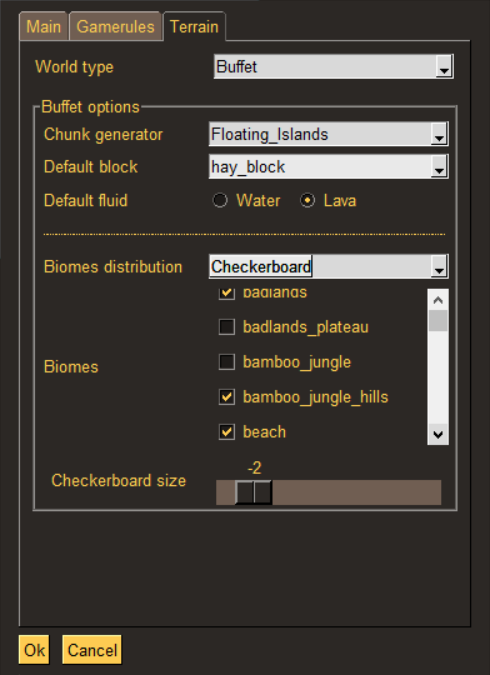
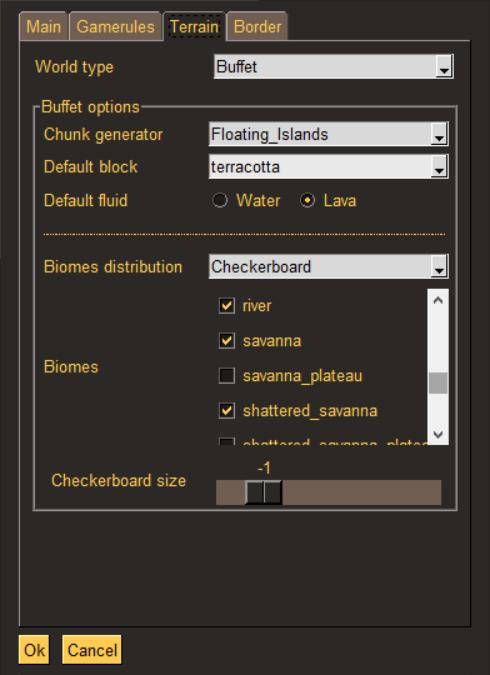
Add World border tab

diff --git a/FastWorldCreator.py b/FastWorldCreator.py
@@ -57,43 +57,43 @@ def create_layouts():
         seed, game mode and difficulty. Datapack selection is bundled in the
         main tab, and populated from the assets/imported_datapacks folder.
         """
-        c1_layout = [[
+        layout = [[
             sg.Frame("Version", [[
-                sg.T('MC Version', size=(10, 1)),
+                sg.T('Minecraft Version', size=(15, 1)),
                 sg.Combo(installed_mc_versions, installed_mc_versions[0],
-                         (18, 1), readonly=True, key="release")
+                         (25, 1), readonly=True, key="release")
                 ],
                 [
-                    sg.Radio("Installed versions", "radio_versions", True,
+                    sg.Radio("Show installed versions", "radio_versions", True,
                              enable_events=True,
                              key="radio_installed_versions"),
-                    sg.Radio("All versions", "radio_versions",
+                    sg.Radio("Show all versions", "radio_versions",
                              enable_events=True, key="radio_all_versions")
                 ]
             ])
         ]]
-        c1_layout += [[
+        c1_layout = [[
             sg.T('World Name', size=(10, 1)),
-            sg.I(size=(20, 1), key="name")
+            sg.I(size=(21, 1), key="name")
         ]]
         c1_layout += [[
             sg.T('Seed', size=(10, 1), tooltip="Leave blank for random seed"),
-            sg.I(size=(20, 1), tooltip="Leave blank for random seed",
+            sg.I(size=(21, 1), tooltip="Leave blank for random seed",
                  key="seed")
         ]]
         c1_layout += [[
             sg.T('Difficulty', size=(10, 1)),
-            sg.Combo(difficulties, difficulties[0], (18, 1), readonly=True,
+            sg.Combo(difficulties, difficulties[0], (19, 1), readonly=True,
                      key="difficulty")
         ]]
         c1_layout += [[
             sg.T('Game mode', size=(10, 1)),
-            sg.Combo(game_modes, game_modes[0], (18, 1), readonly=True,
+            sg.Combo(game_modes, game_modes[0], (19, 1), readonly=True,
                      key="game_mode")
         ]]
         c2_layout = [[sg.Frame('Weather', create_weather_layout())]]
-        layout = [[
-            sg.Col(c1_layout, pad=(0, 7)), sg.Col(c2_layout, pad=(0, 7))
+        layout += [[
+            sg.Col(c1_layout, pad=(0, 5)), sg.Col(c2_layout, pad=(0, 0))
         ]]
         layout += [[
             sg.Frame('Datapacks', create_datapack_layout(), size=(50, 1))
@@ -243,11 +243,63 @@ def create_layouts():
         ]]
         return layout
 
+    def create_border_options():
+        layout = [[
+            sg.Frame("Border center", [[
+                sg.T("X"), sg.I("0", (19, 1), key="border_x"),
+                sg.T("Z"), sg.I("0", (19, 1), key="border_z"),
+            ]])
+        ]]
+        layout += [[
+            sg.Frame("Border size", [
+                [
+                    sg.T("Initial size", (8, 1)),
+                    sg.I("60000000", (10, 1), justification="right",
+                         key="border_size")
+                ],
+                [
+                    sg.T("Final size", (8, 1)),
+                    sg.I("60000000", (10, 1), justification="right",
+                         key="border_size_target")
+                ],
+                [
+                    sg.T("Lerp time", (8, 1),
+                         tooltip="Seconds until border reaches final size"),
+                    sg.I("0", (10, 1), justification="right",
+                         key="border_lerp_time")
+                ]
+            ])
+        ]]
+        layout += [[
+            sg.Frame("Warning zone", [
+                [
+                    sg.T("Damage per block", (15, 1)),
+                    sg.Spin([str(x / 10) for x in range(201)], "0.2",
+                            size=(10, 1), key="border_damage")
+
+                ],
+                [
+                    sg.T("Safe distance", (15, 1)),
+                    sg.I("5", (11, 1), key="border_safe_blocks")
+                ],
+                [
+                    sg.T("Warning time", (15, 1)),
+                    sg.I("15", (11, 1), key="border_warn_time")
+                ],
+                [
+                    sg.T("Warning distance", (15, 1)),
+                    sg.I("5", (11, 1), key="border_warn_blocks")
+                ]
+            ])
+        ]]
+        return layout
+
     tab1 = sg.Tab("Main", create_main_tab_layout())
     tab2 = sg.Tab("Gamerules", create_gamerule_layout())
     tab3 = sg.Tab("Terrain", create_terrain_layout())
+    tab4 = sg.Tab("Border", create_border_options())
     main_layout = [
-        [sg.TabGroup([[tab1, tab2, tab3]])],
+        [sg.TabGroup([[tab1, tab2, tab3, tab4]])],
         [sg.Button('Ok'), sg.Button('Cancel')]
     ]
     return main_layout
@@ -281,6 +333,14 @@ def parse_generator_options(values: dict) -> dict:
     }
 
 
+def parse_border_options(values: dict) -> dict:
+    border_opts = {}
+    for k in list(values.keys()):
+        if str(k).startswith("border_"):
+            border_opts[k[len("border_"):]] = values.get(k)
+    return border_opts
+
+
 def create(values: dict) -> None:
     """ Start the creation of the Minecraft world.
 
@@ -289,6 +349,7 @@ def create(values: dict) -> None:
     for gr in gamerules:
         # Gamerules always stored as strings
         updated_gamerules[gr] = str(values.get(gr)).lower()
+    parse_border_options(values)
     core.run(
         version=values.get("release"),
         world_name=values.get("name").replace(" ", "_"),
@@ -300,7 +361,8 @@ def create(values: dict) -> None:
         generator=values.get("generator").lower(),
         generator_options=parse_generator_options(values),
         raining=values.get("rain"),
-        thundering=values.get("thunder")
+        thundering=values.get("thunder"),
+        border_settings=parse_border_options(values)
     )
 
 

diff --git a/fast_world_creator/new_world/world_creator.py b/fast_world_creator/new_world/world_creator.py
@@ -3,9 +3,9 @@ import os
 import random
 from typing import List
 
+from fast_world_creator.new_world.level_dat import LevelFile
 from fast_world_creator.utils import common_utils as cu
 from fast_world_creator.utils import minecraft_utils as mu
-from fast_world_creator.new_world.level_dat import LevelFile
 
 
 class WorldCreator:
@@ -50,8 +50,9 @@ class WorldCreator:
 
     def create_level_dat(self, gamerules: dict, difficulty: int,
                          datapack_list: List[str], game_mode: int = 0,
-                         raining: bool = False,
-                         thundering: bool = False, generator: str = "default",
+                         raining: bool = False, thundering: bool = False,
+                         border_settings: dict = None,
+                         generator: str = "default",
                          generator_opts: dict = None) -> None:
         """ Creates the level.dat NBT file in the new world folder.
 
@@ -61,9 +62,11 @@ class WorldCreator:
         :param datapack_list: The list of datapack names to enable in the world.
         :param game_mode: An integer representing the game mode of the player.
         :param raining: A boolean value indicating whether rain should be
-            enabled. Gets overriden if the parameter thundering is True.
+            enabled. Gets overridden if the parameter thundering is True.
         :param thundering: A boolean value indicating whether thunder should be
             enabled. Overrides the parameter raining if set to True
+        :param border_settings: Dictionary containing all the options for the
+            world border.
         :param generator: The name of the terrain generator to use in the world.
         :param generator_opts: A dictionary containing the options for the flat
             and buffet terrain generators. If the parameter generator is neither
@@ -88,7 +91,17 @@ class WorldCreator:
             "GameRules": gamerules,
             "GameType": game_mode,
             "raining": True if thundering else raining,
-            "thundering": thundering or False
+            "thundering": thundering or False,
+            "BorderCenterX": float(border_settings.get("x")),
+            "BorderCenterZ": float(border_settings.get("z")),
+            "BorderDamagePerBlock": float(border_settings.get("damage")),
+            "BorderSafeZone": float(border_settings.get("safe_blocks")),
+            "BorderSize": float(border_settings.get("size")),
+            "BorderSizeLerpTarget": float(border_settings.get("size_target")),
+            "BorderSizeLerpTime": int(
+                float(border_settings.get("lerp_time")) * 600),
+            "BorderWarningBlocks": float(border_settings.get("warn_blocks")),
+            "BorderWarningTime": float(border_settings.get("warn_time"))
         }
         if mu.GeneratorNames(generator) == mu.GeneratorNames.BUFFET:
             generator_options_dict = {
@@ -96,16 +109,17 @@ class WorldCreator:
                     "type": mc + generator_opts.get("buffet_biome_type"),
                     "options": {
                         "size": generator_opts.get('buffet_size'),
-                        "biomes": [mc+biome for biome in
+                        "biomes": [mc + biome for biome in
                                    generator_opts.get("buffet_biomes")]
                     }
                 },
                 "chunk_generator": {
                     "options": {
-                        "default_block": mc+generator_opts.get("buffet_block"),
-                        "default_fluid": mc+generator_opts.get("buffet_fluid")
+                        "default_block": mc + generator_opts.get(
+                            "buffet_block"),
+                        "default_fluid": mc + generator_opts.get("buffet_fluid")
                     },
-                    "type": mc+generator_opts.get("buffet_chunk_type")
+                    "type": mc + generator_opts.get("buffet_chunk_type")
                 }
             }
             level_dat_dict["generatorOptions"] = generator_options_dict
@@ -113,11 +127,11 @@ class WorldCreator:
             generator_layers = []
             for layer in generator_opts.get("flat_layers"):
                 generator_layers.append({
-                    "block": mc+layer[1],
+                    "block": mc + layer[1],
                     "height": str(layer[0])
                 })
             generator_options_dict = {
-                "biome": mc+generator_opts.get("flat_biome"),
+                "biome": mc + generator_opts.get("flat_biome"),
                 "layers": generator_layers,
                 "structures": generator_opts.get("flat_structures")
             }

diff --git a/fast_world_creator/core.py b/fast_world_creator/core.py
@@ -9,7 +9,8 @@ from fast_world_creator.utils import common_utils as cu
 def run(version: str, world_name: str, seed: int, datapacks: List[Datapack],
         gamerules: dict, difficulty: int = 2, game_mode: int = 0,
         generator: str = "default", generator_options: dict = None,
-        raining: bool = False, thundering: bool = False) -> None:
+        raining: bool = False, thundering: bool = False,
+        border_settings: dict = None) -> None:
     """ Create a minecraft world with the specified parameters.
 
     :param version: Version name (e.g. '1.15.2')
@@ -27,6 +28,8 @@ def run(version: str, world_name: str, seed: int, datapacks: List[Datapack],
     :param raining: Whether it should be raining in the world.
     :param thundering: Whether it should be thundering in the world. Overrides
         the raining parameter if set to True.
+    :param border_settings: Dictionary containing all the options for the world
+        border.
     """
     wc = world_creator.WorldCreator(
         mc_release=version,
@@ -49,6 +52,7 @@ def run(version: str, world_name: str, seed: int, datapacks: List[Datapack],
         generator=generator,
         generator_opts=generator_options,
         raining=raining,
-        thundering=thundering
+        thundering=thundering,
+        border_settings=border_settings
     )
     cu.change_directory(owd)

diff --git a/README.md b/README.md
@@ -14,6 +14,7 @@ Generate Minecraft worlds with your favourite datapacks in a couple clicks!
   <img src="https://github.com/pizzaspren/FastWorldCreator/blob/master/assets/images/gui_main.png" width="275">
   <img src="https://github.com/pizzaspren/FastWorldCreator/blob/master/assets/images/gui_gamerules.png" width="275">
   <img src="https://github.com/pizzaspren/FastWorldCreator/blob/master/assets/images/gui_terrain.png" width="275">
+  <img src="https://github.com/pizzaspren/FastWorldCreator/blob/master/assets/images/gui_border.png" width="275">
 </details>
 
 Tired of copying and pasting your datapacks every time you create a new world? Want to create a multitude of worlds in a very short time? Would you like to create worlds for different versions of Minecraft without even launching the game?
